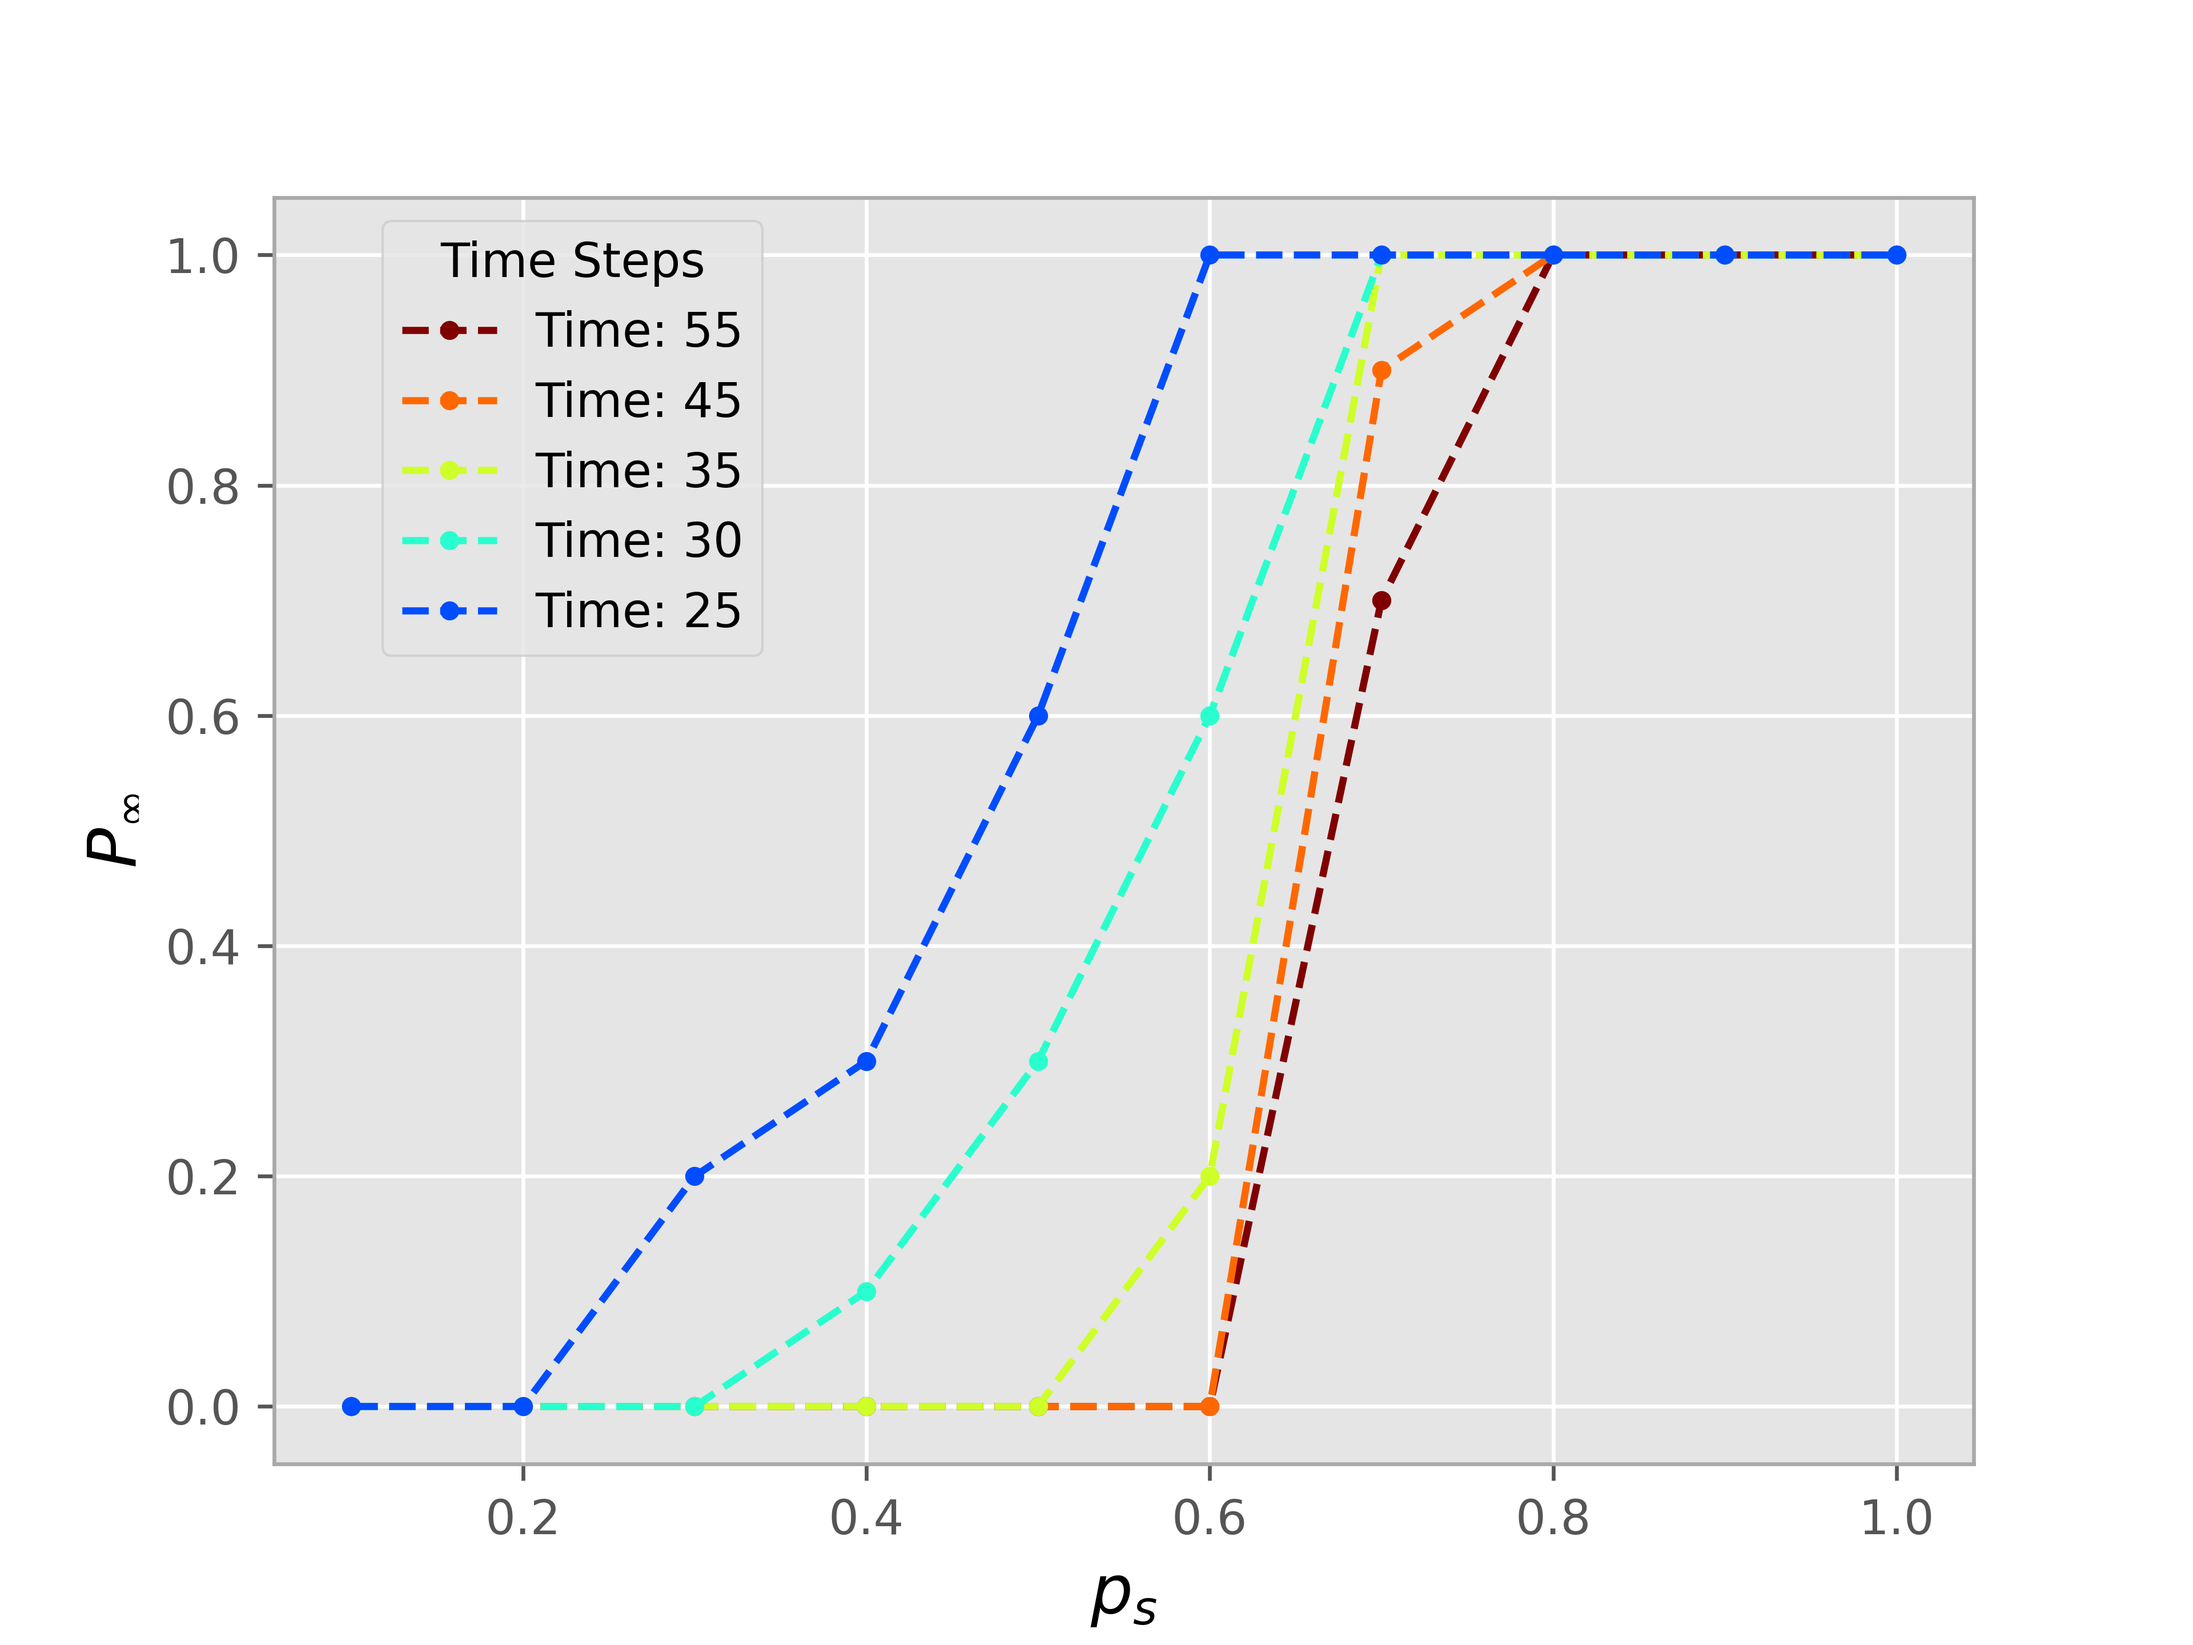
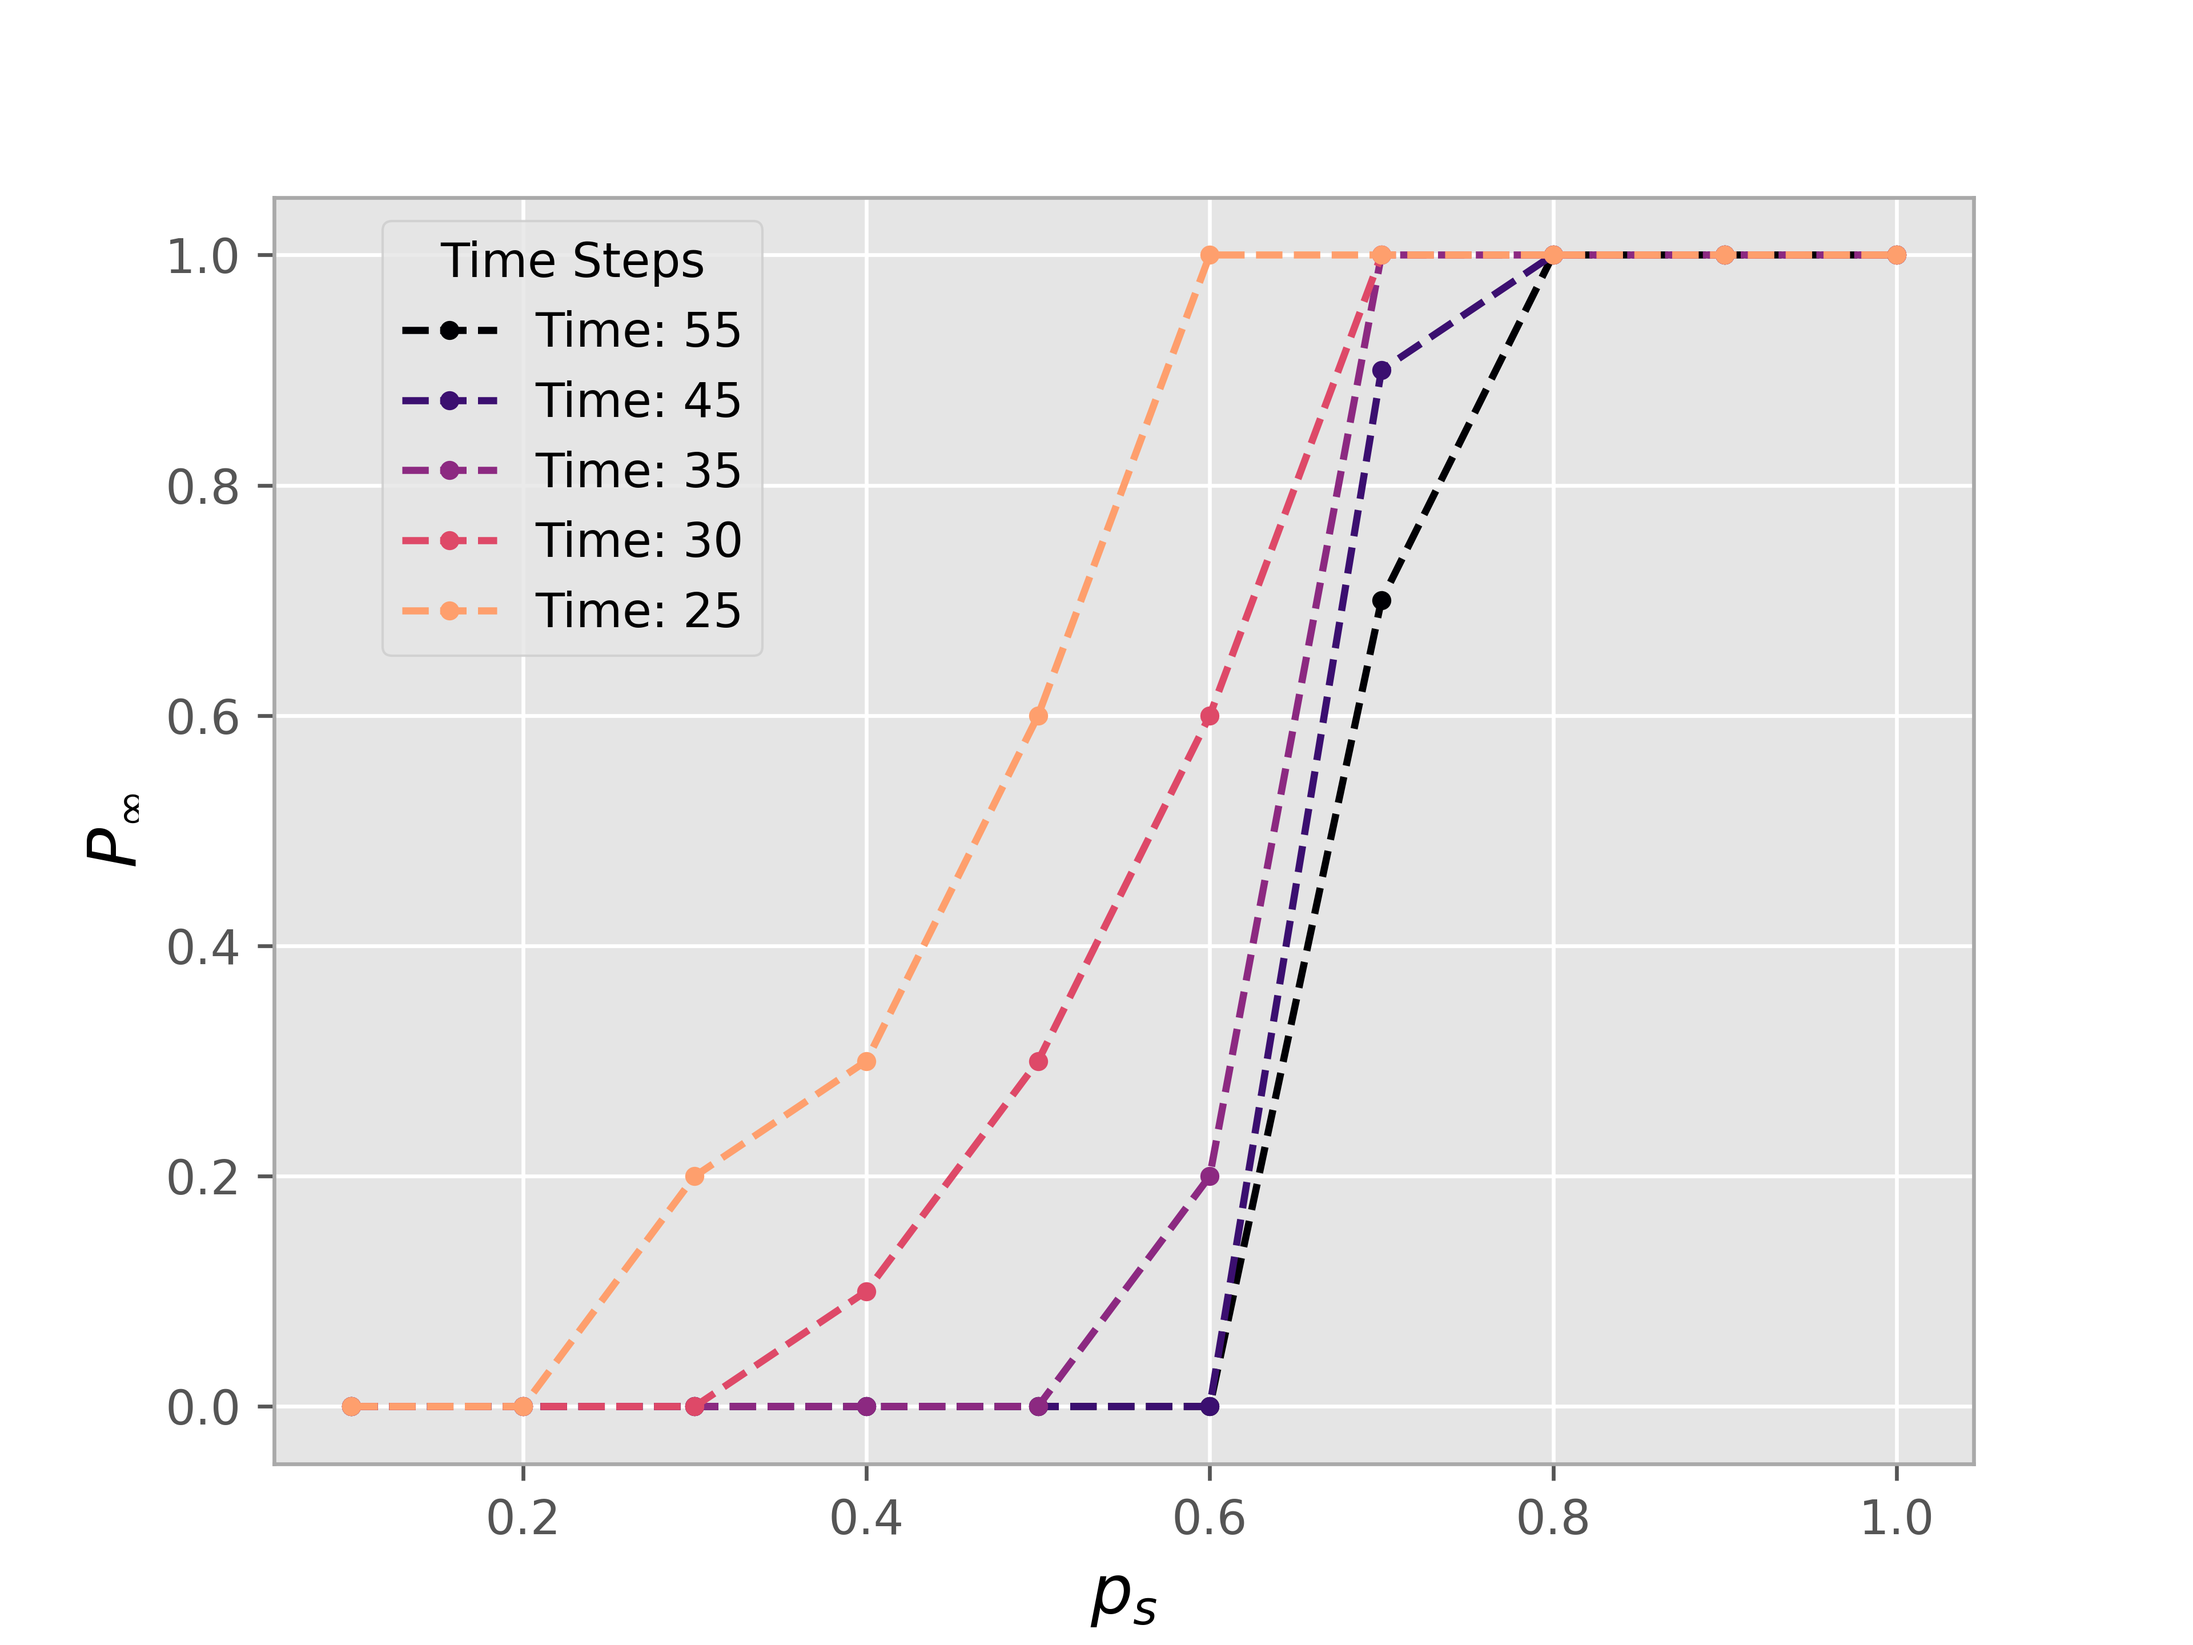
Minor updates in plots of sim_2

diff --git a/data/sim_2_evolution_many_ps/p_infty_vs_ps_fit/fit_p_infty_vs_ps.py b/data/sim_2_evolution_many_ps/p_infty_vs_ps_fit/fit_p_infty_vs_ps.py
@@ -75,7 +75,7 @@ for step_index in range(len(list_of_steps)):
         p_infty_of_ps,
         ps[step_index],
         p_infty[step_index],
-        p0=(0.7, 1),
+        p0=(0.7, 0.1),
         maxfev=5000,
         bounds=bnds,
     )
@@ -118,14 +118,14 @@ for step_index in range(len(list_of_steps)):
         marker=".",
         linestyle="None",
         label=f"$t = {list_of_steps[step_index]}$",
-        color=plt.cm.jet(step_index / len(list_of_steps)),
+        color=plt.cm.magma(step_index / len(list_of_steps)),
     )
     # we plot the fitted function
     ax.plot(
         xarg,
         p_infty_of_ps(xarg, popt[step_index][0], popt[step_index][1]),
         linestyle="dashed",
-        color=plt.cm.jet(step_index / len(list_of_steps)),
+        color=plt.cm.magma(step_index / len(list_of_steps)),
     )
 
 # we set the grid

diff --git a/data/sim_2_evolution_many_ps/p_infty_vs_ps_fit/simulation_df_exploration.py b/data/sim_2_evolution_many_ps/p_infty_vs_ps_fit/simulation_df_exploration.py
@@ -88,7 +88,7 @@ mean_df = df.groupby(['ps', 'time'])[cols_to_average].mean().reset_index()
 # sns.set_context("notebook", font_scale=1.2)
 
 # Define color map for different time steps
-cmap = plt.cm.jet_r
+cmap = plt.cm.magma
 
 # Define list of time steps to plot
 list_of_steps = [55, 45, 35, 30, 25]
